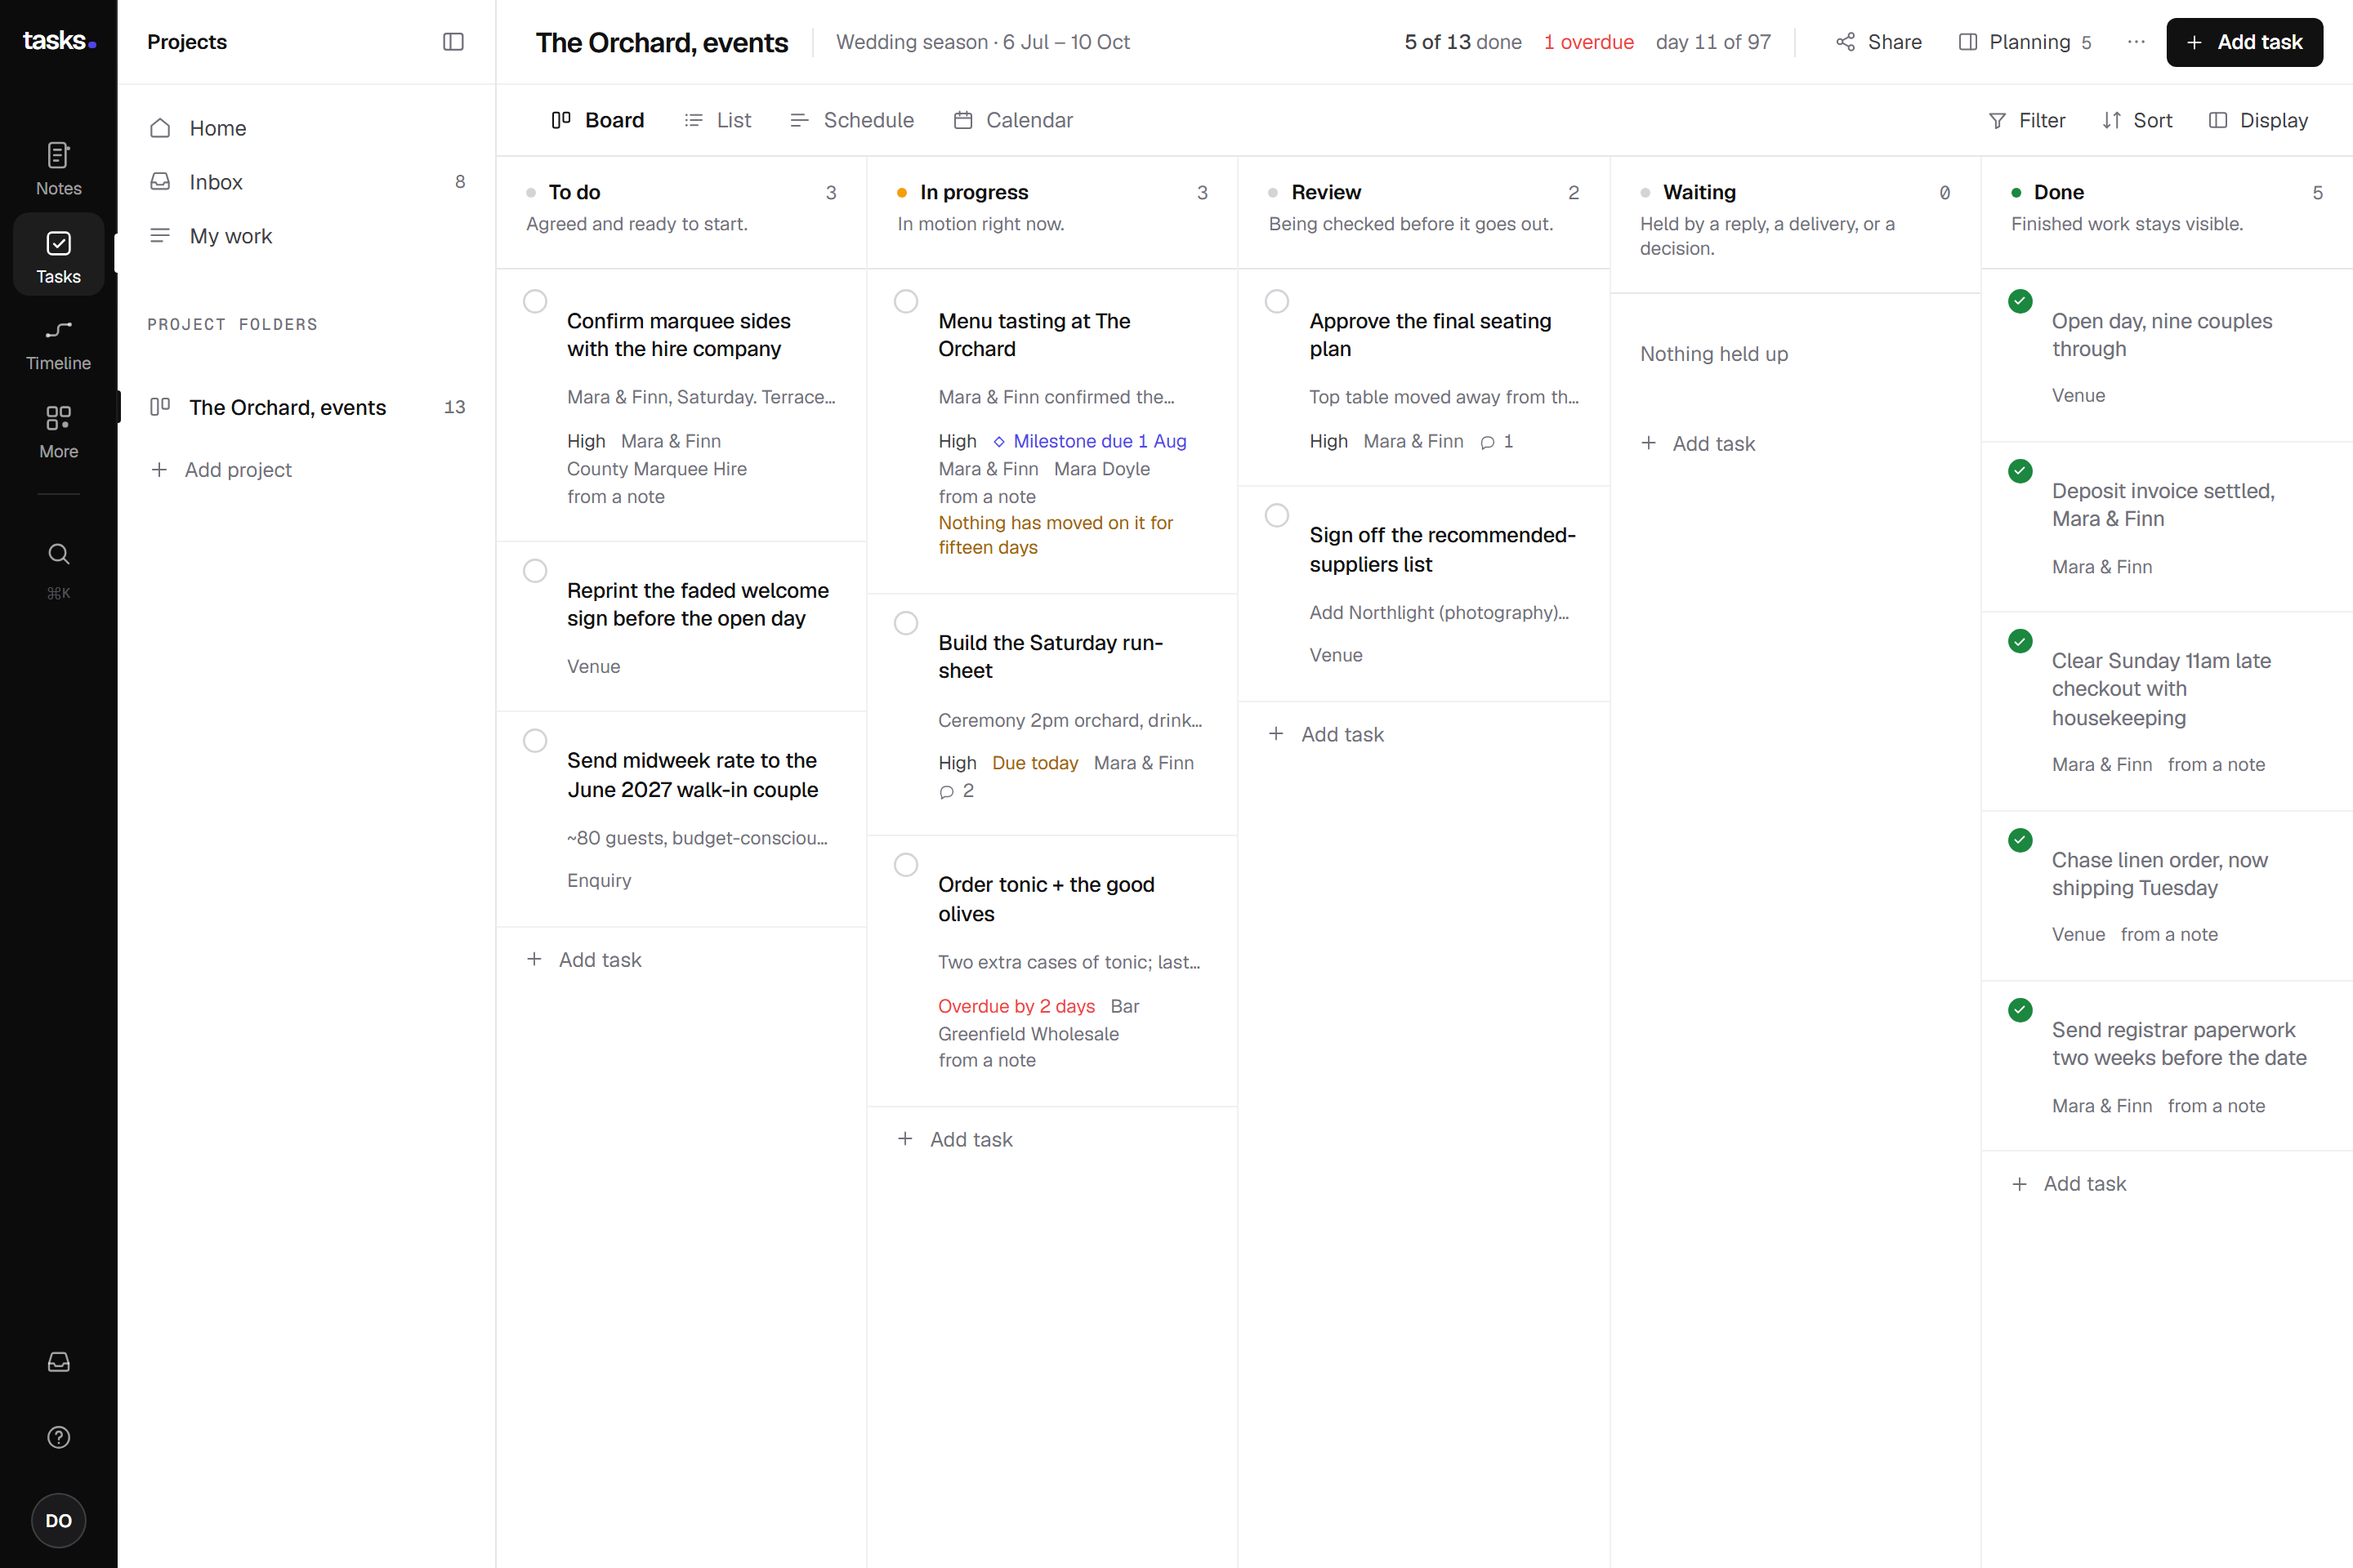
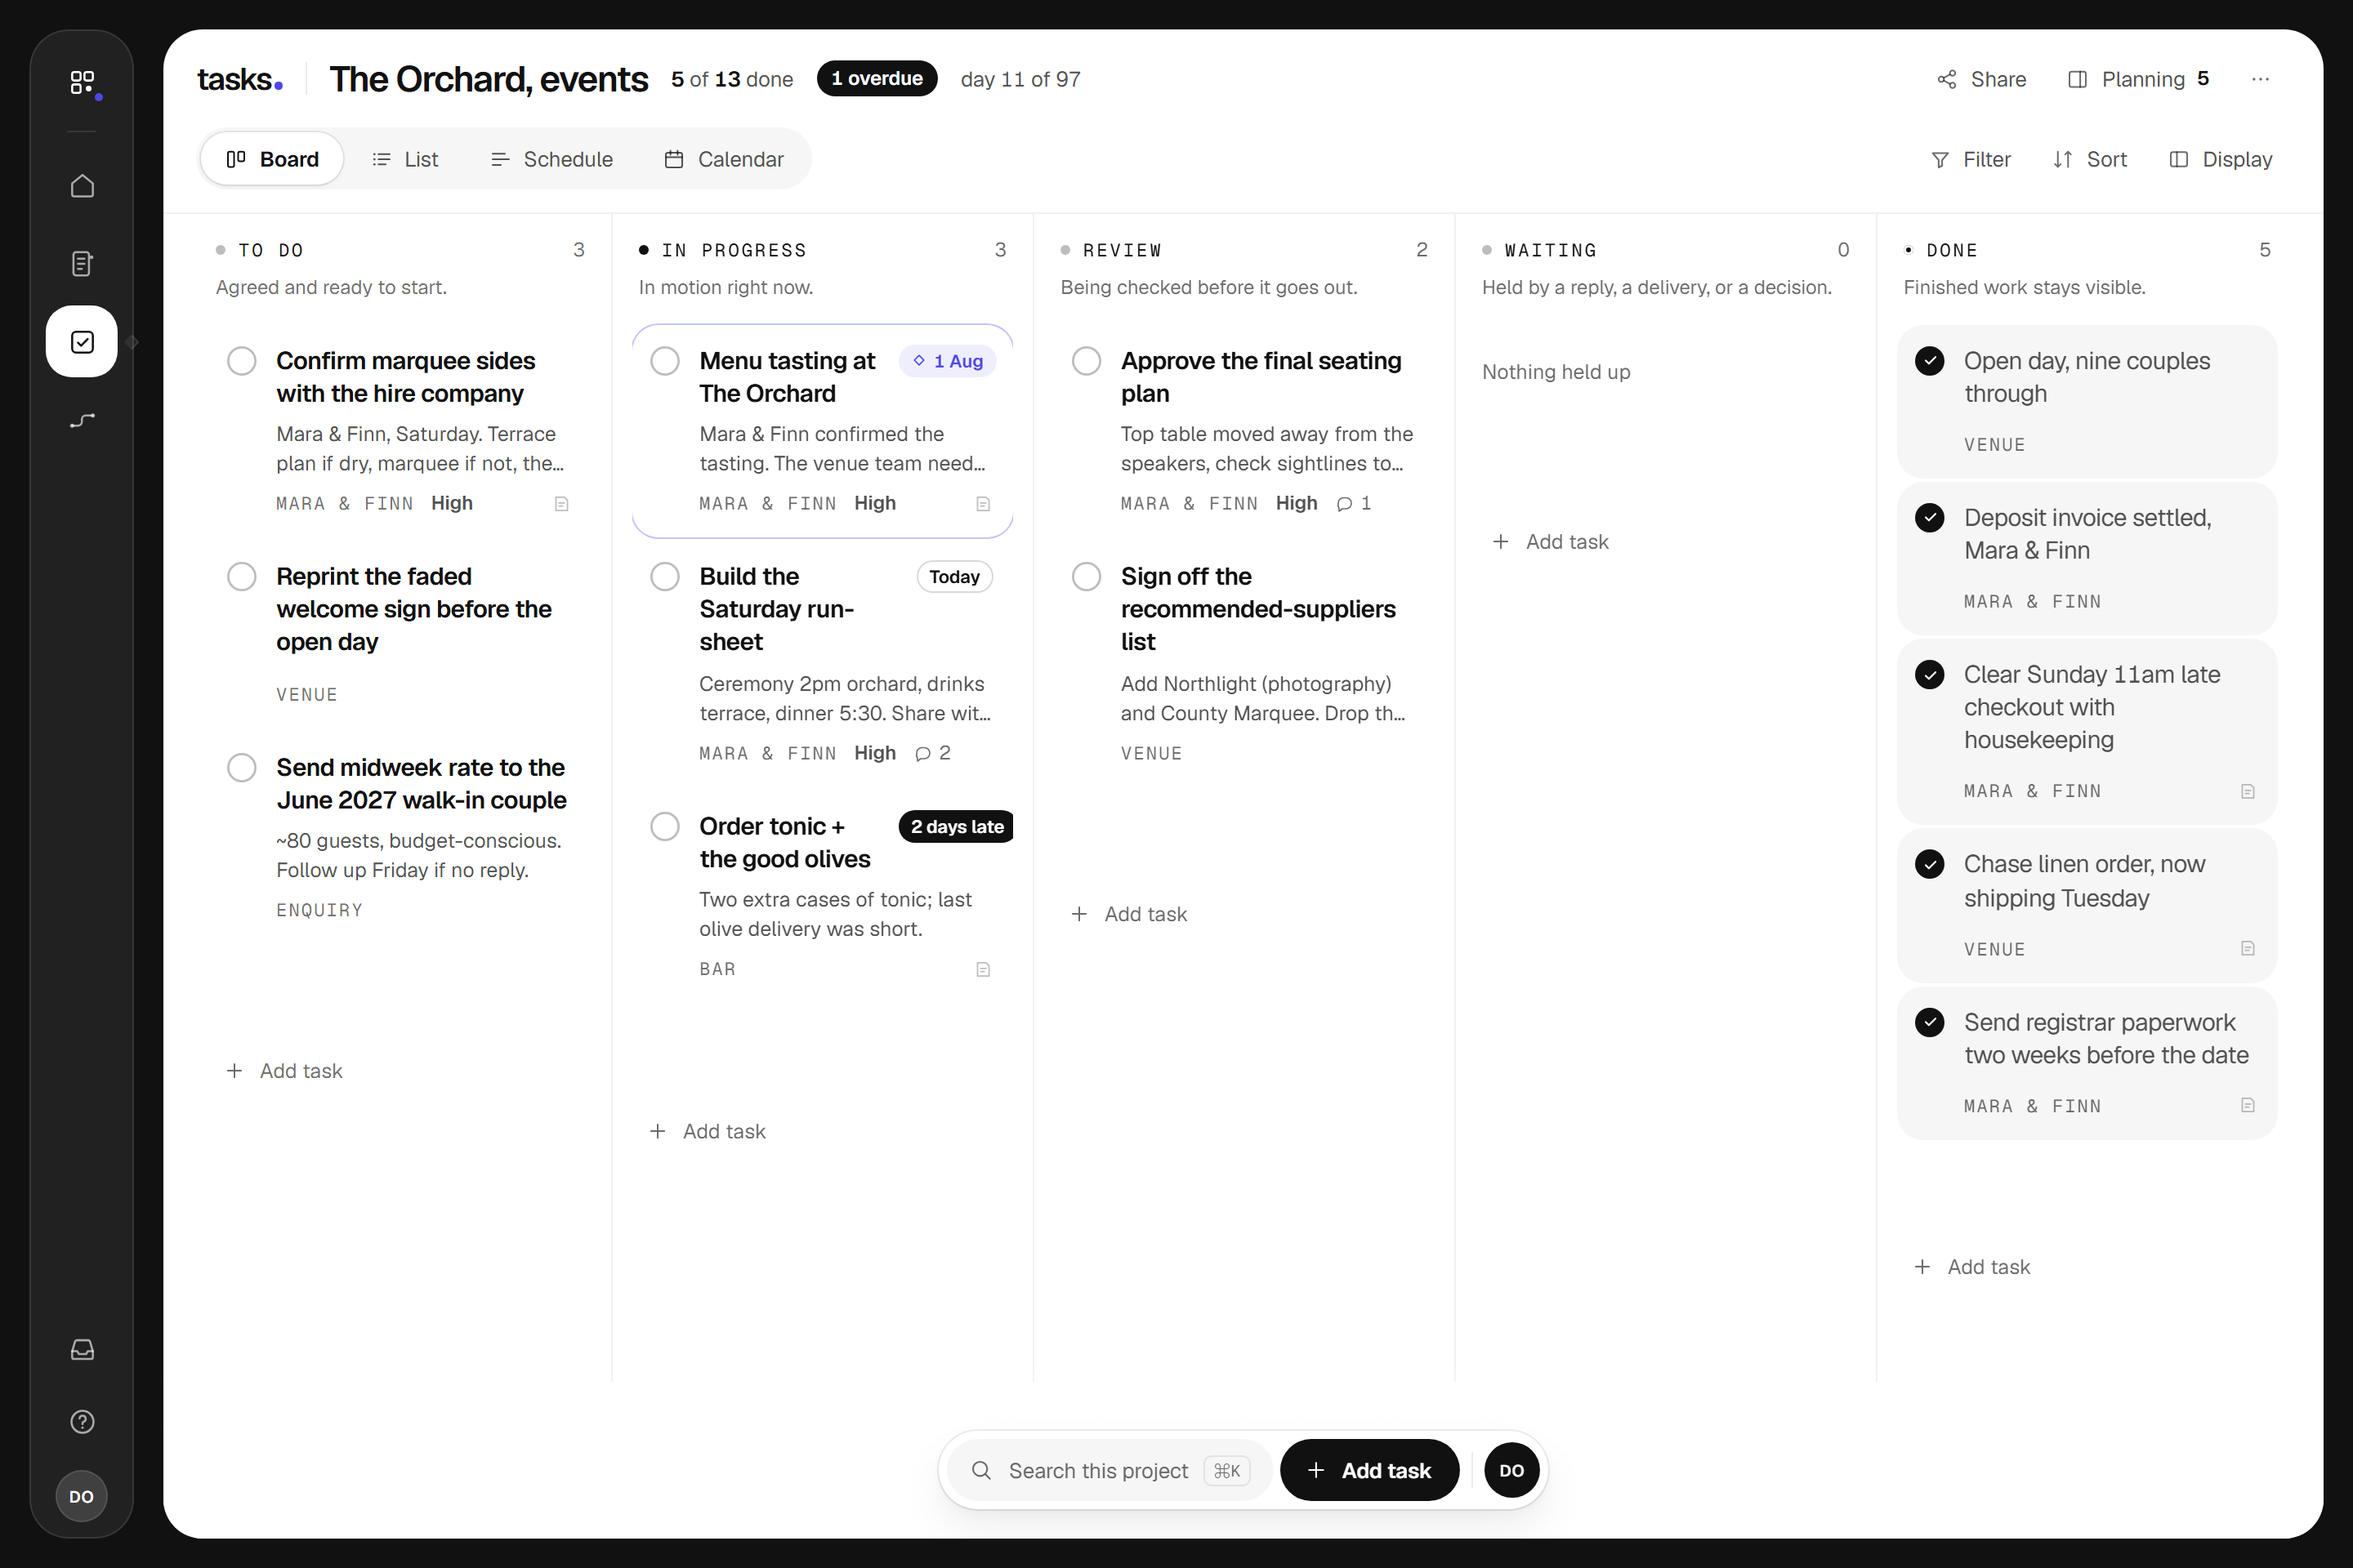
design(exploration): the decision layer
Six design decisions, each isolated on its own root attribute, so changing
one cannot leak into another: card style, corner radius, density, indigo
intensity, type scale, plus the variant preset that names a combination.

The three finished variants are nothing more than three presets of those
six, which is what guarantees every mix stays on-brand and on-palette: no
combination can reach a colour that is not Ink, Indigo or White. Audit
passes on all three presets.

Indigo intensity was corrected after the first render: forward moves the
accent onto intent, never onto status. Overdue stays ink because a warning
is not a brand moment, and done stays ink because finished work should not
be the loudest thing on the board.

diff --git a/docs/design/labs/tasks-2026-08/floor.html b/docs/design/labs/tasks-2026-08/floor.html
@@ -63,6 +63,7 @@
   /* ── indigo, at stated alphas ──────────────────────────────── */
   --indigo-ink: var(--indigo);               /* 6.3:1 on white          */
   --indigo-wash: rgba(79, 70, 229, 0.09);
+  --indigo-deep: #4338ca;                    /* the indigo ramp, one step darker */
   --indigo-line: rgba(79, 70, 229, 0.32);
   --indigo-ring: rgba(79, 70, 229, 0.16);
 
@@ -575,6 +576,111 @@ a:focus-visible, button:focus-visible, [tabindex]:focus-visible {
   .cardDots { width: 44px; height: 44px; top: 2px; right: 2px; }
 }
 
+
+/* ═══════════════════════════════════════════════════════════════════
+   THE DECISION LAYER
+
+   Six design decisions, each isolated on its own root attribute, so a
+   change to one cannot leak into another. The three named variants are
+   nothing more than three preset combinations of these six, which is
+   why every combination stays on-brand: none of them can reach a colour
+   that is not Ink, Indigo or White.
+
+     data-cards    flat | bordered | elevated
+     data-radius   sharp | soft | round
+     data-density  comfortable | compact
+     data-indigo   subtle | forward
+     data-type     calm | expressive
+   ═══════════════════════════════════════════════════════════════════ */
+
+/* ── card style ────────────────────────────────────────────────── */
+/* Flat: no ring at rest. Space does the separating, and the card only
+   acquires an edge when you point at it. */
+[data-cards="flat"] .card { box-shadow: none; }
+[data-cards="flat"] .card:hover, [data-cards="flat"] .card[data-force="hover"] { box-shadow: none; background: var(--wash); }
+[data-cards="flat"] .card[data-done] { box-shadow: none; background: var(--wash); }
+[data-cards="flat"] .card[data-next] { box-shadow: 0 0 0 1px var(--indigo-line); }
+[data-cards="flat"] .trayBody { gap: 2px; }
+[data-cards="flat"] .loadCard { box-shadow: none; background: var(--wash); }
+
+/* Elevated: the card is an object at rest, and picking it up only
+   deepens something that was already there. */
+[data-cards="elevated"] .card { box-shadow: var(--ring), var(--raise); }
+[data-cards="elevated"] .card:hover, [data-cards="elevated"] .card[data-force="hover"] { box-shadow: var(--ring-strong), var(--float); }
+[data-cards="elevated"] .card[data-done] { box-shadow: 0 0 0 1px var(--line-soft); }
+[data-cards="elevated"] .loadCard { box-shadow: var(--ring), var(--raise); }
+
+/* ── corner radius ─────────────────────────────────────────────── */
+[data-radius="sharp"] {
+  --r-chip: 4px; --r-ctl: 4px; --r-card: 4px; --r-sheet: 8px;
+}
+[data-radius="sharp"] .rail, [data-radius="sharp"] .railTile,
+[data-radius="sharp"] .railAdd { border-radius: 8px; }
+[data-radius="sharp"] .seg, [data-radius="sharp"] .segItem,
+[data-radius="sharp"] .dock, [data-radius="sharp"] .dockField,
+[data-radius="sharp"] .dockPrimary, [data-radius="sharp"] .when,
+[data-radius="sharp"] .late, [data-radius="sharp"] .drawerTab,
+[data-radius="sharp"] .ghost { border-radius: 4px; }
+[data-radius="sharp"] .railAvatar, [data-radius="sharp"] .dockAvatar { border-radius: 8px; }
+
+[data-radius="round"] {
+  --r-chip: 8px; --r-ctl: 12px; --r-card: 16px; --r-sheet: 24px;
+}
+[data-radius="round"] .rail { border-radius: 24px; }
+[data-radius="round"] .railTile, [data-radius="round"] .railAdd { border-radius: 16px; }
+[data-radius="round"] .specStage { border-radius: 16px; }
+
+/* ── density ───────────────────────────────────────────────────── */
+/* Compact is not "the same thing, smaller". Lines that earn their place
+   at comfortable density stop earning it here, so the note clamps to
+   one line and the tray note goes away entirely. */
+[data-density="compact"] .card { padding: 8px 10px 8px 9px; row-gap: 4px; column-gap: 7px; grid-template-columns: 20px minmax(0, 1fr); }
+[data-density="compact"] .cardTitle { font-size: 13px; line-height: 1.32; }
+[data-density="compact"] .cardNote { font-size: 12px; line-height: 1.38; -webkit-line-clamp: 1; }
+[data-density="compact"] .cardFoot { min-height: 0; font-size: 11px; gap: 8px; }
+[data-density="compact"] .trayBody { gap: 5px; }
+[data-density="compact"] .tray { padding: 12px 9px 6px; }
+[data-density="compact"] .trayNote { display: none; }
+[data-density="compact"] .trayHead { padding-bottom: 9px; }
+[data-density="compact"] .head { height: 52px; }
+[data-density="compact"] .views { padding-bottom: 10px; }
+[data-density="compact"] .tick { width: 16px; height: 16px; }
+[data-density="compact"] .tick svg { width: 10px; height: 10px; }
+[data-density="compact"] .when { height: 18px; font-size: 10.5px; padding: 0 7px; }
+[data-density="compact"] .drawerRow { padding: 8px 10px; }
+[data-density="compact"] .loadCard { padding: 9px; gap: 7px; }
+
+/* ── indigo intensity ──────────────────────────────────────────── */
+/* Forward does not add indigo everywhere. It moves the accent from the
+   one dated milestone onto the one thing you are most likely to do
+   next, and lets the spine say which product you are in. */
+/* Indigo marks intent, never status. Forward moves the accent onto the
+   thing you are most likely to do next and onto the product you are in.
+   Overdue stays ink, because a warning is not a brand moment, and done
+   stays ink, because completed work should not be the loudest thing on
+   the board. */
+[data-indigo="forward"] .dockPrimary { background: var(--indigo); }
+[data-indigo="forward"] .dockPrimary:hover { background: var(--indigo-deep); }
+[data-indigo="forward"] .railTile[data-active] { background: var(--indigo); color: var(--white); }
+[data-indigo="forward"] .railMark i { box-shadow: 0 0 0 3px rgba(79, 70, 229, 0.28); }
+[data-indigo="forward"] .segItem[data-active] { color: var(--indigo-ink); }
+[data-indigo="forward"] .card[data-next] { box-shadow: 0 0 0 1.5px var(--indigo); }
+[data-indigo="forward"] .when[data-t="milestone"] { background: var(--indigo); color: var(--white); }
+[data-indigo="forward"] .trayAdd:hover, [data-indigo="forward"] .drawerAdd:hover { color: var(--indigo-ink); }
+
+/* ── type scale ────────────────────────────────────────────────── */
+/* Expressive widens the gaps in the scale rather than making everything
+   bigger. The title grows, the supporting lines hold, and the tracking
+   curve steepens so hierarchy is carried by shape, not by size alone. */
+[data-type="expressive"] .headName { font-size: 22px; letter-spacing: -0.034em; }
+[data-type="expressive"] .word { font-size: 19px; }
+[data-type="expressive"] .cardTitle { font-size: 15px; line-height: 1.34; letter-spacing: -0.022em; }
+[data-type="expressive"] .cardNote { font-size: 12.5px; }
+[data-type="expressive"] .trayName { font-size: 11px; letter-spacing: 0.14em; }
+[data-type="expressive"] .drawerHead h2 { font-size: 22px; letter-spacing: -0.034em; }
+[data-type="expressive"] .specIntro { font-size: 14px; }
+[data-type="expressive"] .headFacts { font-size: 13px; }
+
 /* ── responsive ────────────────────────────────────────────────── */
 @media (max-width: 1200px) {
   .board { grid-template-columns: none; grid-auto-flow: column; grid-auto-columns: minmax(258px, 1fr); }
@@ -635,7 +741,24 @@ a:focus-visible, button:focus-visible, [tabindex]:focus-visible {
 const params = new URLSearchParams(location.search);
 const state = params.get("state") || "board";
 const variant = params.get("v") || "locked";
-document.documentElement.setAttribute("data-variant", variant);
+
+/* The three finished variants are three preset combinations of the six
+   decisions. Nothing else distinguishes them, which is what guarantees
+   every mix stays on-brand. */
+const PRESETS = {
+  locked: { cards: "bordered", radius: "soft", density: "comfortable", indigo: "subtle", type: "calm" },
+  a: { cards: "flat", radius: "round", density: "comfortable", indigo: "subtle", type: "expressive" },
+  b: { cards: "bordered", radius: "sharp", density: "compact", indigo: "subtle", type: "calm" },
+  c: { cards: "elevated", radius: "soft", density: "comfortable", indigo: "forward", type: "expressive" },
+};
+const DECISIONS = ["cards", "radius", "density", "indigo", "type"];
+
+const root = document.documentElement;
+const preset = PRESETS[variant] || PRESETS.locked;
+root.setAttribute("data-variant", variant);
+for (const key of DECISIONS) {
+  root.setAttribute("data-" + key, params.get(key) || preset[key]);
+}
 
 const B = window.BOARD;
 const I = window.ICON;
